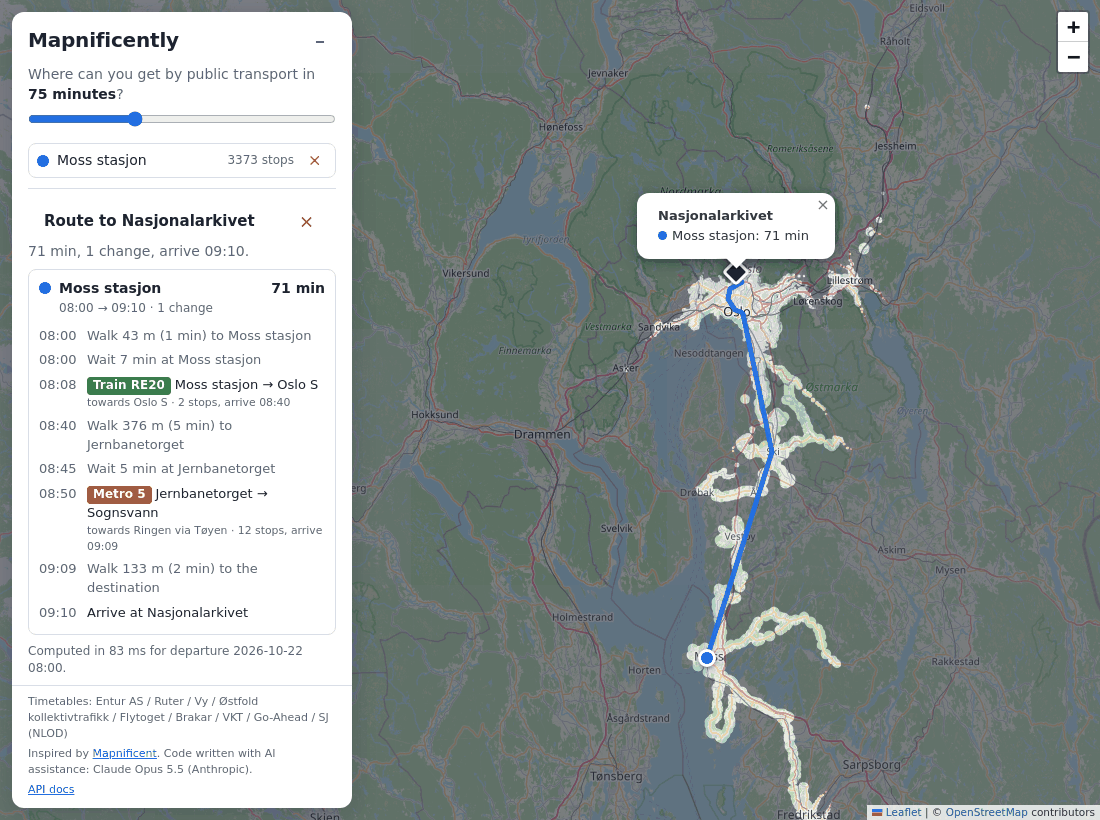
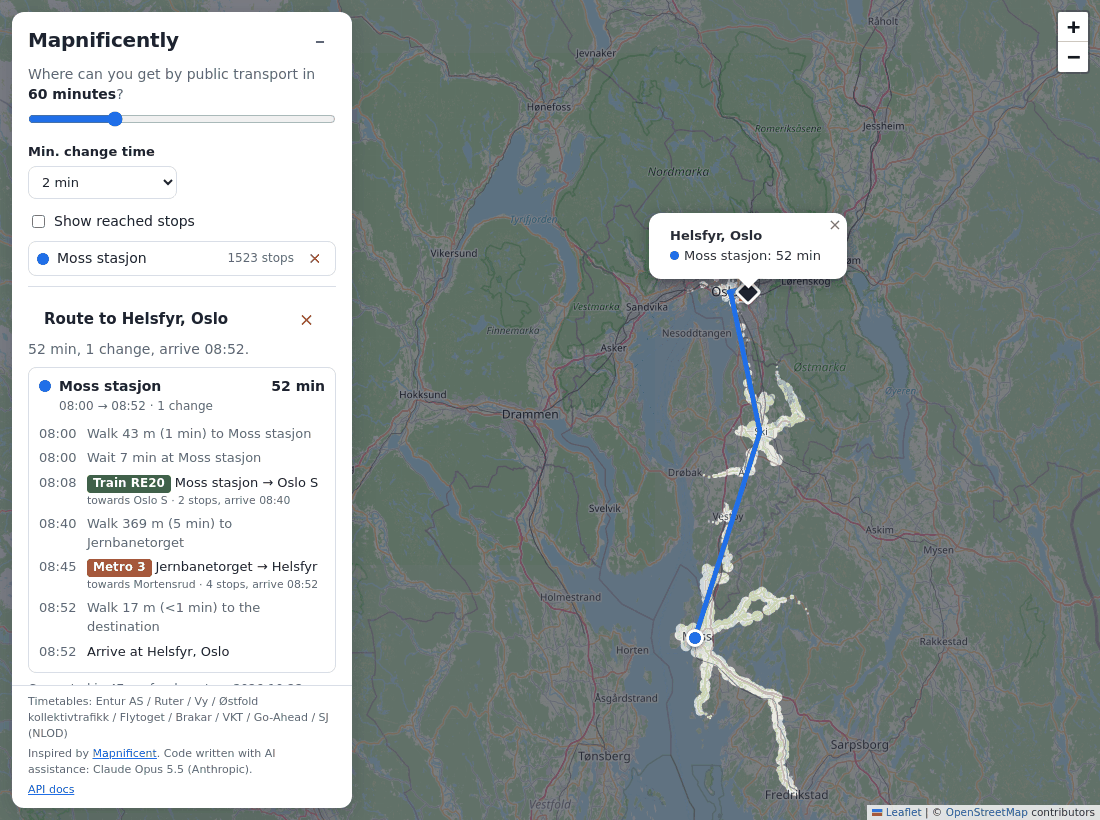
End a route's last short walk at the destination
When the destination lies right at the stop a route walks to last (e.g.
from the Helsfyr metro platform to the neighbouring "Helsfyr T" stop), the
route ended with "Walk 17 m (0 min) to Helsfyr T" followed by the arrival.
That walk now ends at the destination ("to the destination"), and walks
under 30 seconds show "<1 min" instead of "0 min".

Python (journey.py) and the browser engine (offline.js) apply the same rule
and still give identical journeys; a test covers a destination reached on
foot from the last stop.

Use Moss stasjon → Helsfyr, Oslo as the README's route example

"How do I get there?" now shows Moss stasjon → Helsfyr, Oslo at 08:00 on
a weekday: RE20 to Oslo S, a 5-minute walk to Jernbanetorget, then metro 3
to Helsfyr, 52 minutes with one change. The screenshot was re-recorded.

`make readme-media MEDIA_ONLY=route` (scripts/readme_media.py --only)
re-records just some of the images, so the GIFs are left untouched. The
screenshot's panel now starts at the change-time row, with its label.

diff --git a/src/mapnificently/web/app.js b/src/mapnificently/web/app.js
@@ -519,7 +519,8 @@ function legItems(journey, destLabel) {
       items.push([hhmm(previousArrive), "wait", `Wait ${fmtMinutes(leg.wait_s)} at ${leg.from_name}`]);
     }
     if (leg.mode === "walk") {
-      const minutesWalked = fmtMinutes((Date.parse(leg.arrive) - Date.parse(leg.depart)) / 1000);
+      const walkSeconds = (Date.parse(leg.arrive) - Date.parse(leg.depart)) / 1000;
+      const minutesWalked = walkSeconds < 30 ? "<1 min" : fmtMinutes(walkSeconds);
       const to = leg.to_name === "Destination" ? "the destination" : leg.to_name;
       const text = leg.from_name === leg.to_name
         ? `Change platform at ${leg.to_name} (${fmtDistance(leg.distance_m)})`

diff --git a/src/mapnificently/web/offline.js b/src/mapnificently/web/offline.js
@@ -328,6 +328,10 @@
     const last = distanceTo(net, bestStop, destination) * detour;
     if (last >= MIN_WALK_LEG_M) {
       legs.push({ kind: "walk", from: bestStop, to: null, depart: result.arrival[bestStop], arrive: bestT, distance: last });
+    } else if (legs.length && legs[legs.length - 1].kind === "walk") {
+      // The destination is right at the stop we walked to: that walk ends at the destination.
+      legs[legs.length - 1].to = null;
+      legs[legs.length - 1].arrive = bestT;
     }
     return { arrive: bestT, legs };
   }

diff --git a/scripts/readme_media.py b/scripts/readme_media.py
@@ -139,20 +139,20 @@ def record_meeting(page: Page, base: str, day: date, frames: Path) -> list[list[
 
 
 def record_route(page: Page, base: str, day: date, out: Path) -> None:
-    """Moss stasjon → Nasjonalarkivet, leg by leg."""
+    """Moss stasjon → Helsfyr, Oslo, leg by leg."""
     page.set_viewport_size({"width": 1100, "height": 820})
-    url = f"{base}#city=moss&o=59.43214,10.65705&to=59.96678,10.73550&t=75&at={day}T08:00&ch=2"
+    url = f"{base}#city=moss&o=59.43214,10.65705&to=59.91267,10.80105&t=60&at={day}T08:00&ch=2"
     page.goto(url)
     page.reload()
     page.wait_for_function("state.route && state.route.result", timeout=60_000)
     page.evaluate(
-        "state.origins[0].label = 'Moss stasjon'; state.destination.label = 'Nasjonalarkivet';"
+        "state.origins[0].label = 'Moss stasjon'; state.destination.label = 'Helsfyr, Oslo';"
         " renderRoute(); renderOrigins();"
     )
-    # Start the panel at the start-point list, so no half-cut setting shows above the route.
+    # Start the panel at the change-time row, so no half-cut setting shows above the route.
     page.evaluate(
         "() => { const body = $('panel-body');"
-        " body.scrollTop = $('origins').offsetTop - body.offsetTop - 4; }"
+        " body.scrollTop = $('change').closest('.row').offsetTop - body.offsetTop - 4; }"
     )
     settle(page)
     page.screenshot(path=out.with_suffix(".tmp.png"))
@@ -213,6 +213,13 @@ def main() -> None:
     parser.add_argument("--base-url", default="http://127.0.0.1:8000/")
     parser.add_argument("--out", type=Path, default=Path("docs/media"))
     parser.add_argument("--date", type=date.fromisoformat, default=next_weekday())
+    parser.add_argument(
+        "--only",
+        nargs="+",
+        choices=["cities", "meeting", "route"],
+        default=["cities", "meeting", "route"],
+        help="Record only these (default: all).",
+    )
     args = parser.parse_args()
     base = args.base_url.rstrip("/") + "/"
     args.out.mkdir(parents=True, exist_ok=True)
@@ -221,9 +228,12 @@ def main() -> None:
         frames = Path(tmp)
         browser = p.chromium.launch()
         page = browser.new_page(viewport=SIZE, device_scale_factor=1)
-        write_gif(record_cities(page, base, args.date, frames), args.out / "cities.gif")
-        write_gif(record_meeting(page, base, args.date, frames), args.out / "meeting-point.gif")
-        record_route(page, base, args.date, args.out / "route.png")
+        if "cities" in args.only:
+            write_gif(record_cities(page, base, args.date, frames), args.out / "cities.gif")
+        if "meeting" in args.only:
+            write_gif(record_meeting(page, base, args.date, frames), args.out / "meeting-point.gif")
+        if "route" in args.only:
+            record_route(page, base, args.date, args.out / "route.png")
         browser.close()
     for path in sorted(args.out.iterdir()):
         print(f"{path}: {path.stat().st_size / 1e6:.2f} MB")

diff --git a/tests/unit/test_journey.py b/tests/unit/test_journey.py
@@ -178,3 +178,13 @@ def test_boards_where_fewest_vehicles_are_needed(tmp_path: Path):
     assert rides == [("Y", "Stop R", "Stop S")]
     assert journey.num_changes == 0
     assert journey.duration_s == 20 * 60  # the same arrival as riding X then Y
+
+
+def test_last_walk_ends_at_the_destination(store: CityDataStore, test_city: CityConfig):
+    """Destination right at F, which is reached on foot from C: that walk is to the destination."""
+    [journey] = route(store, test_city, [at("A")], at("F")).journeys
+    *_, ride, walk = journey.legs
+    assert (ride.line, ride.to_name) == ("1", "Stop C")
+    assert (walk.mode, walk.from_name, walk.to_name) == ("walk", "Stop C", "Destination")
+    assert 50 < walk.distance_m < 100
+    assert walk.arrive == journey.arrive

diff --git a/src/mapnificently/routing/journey.py b/src/mapnificently/routing/journey.py
@@ -201,4 +201,8 @@ def itinerary_to(
         legs.append(
             Leg("walk", best_stop, None, result.arrival[best_stop], best_t, distance_m=last)
         )
+    elif legs and legs[-1].kind == "walk":
+        # The destination is right at the stop we walked to: that walk ends at the destination.
+        legs[-1].to_stop = None
+        legs[-1].arrive_s = best_t
     return Itinerary(arrive_s=best_t, legs=legs)

diff --git a/README.md b/README.md
@@ -48,10 +48,10 @@ which appears near Oslo S after about 20 minutes and grows from there.*
 **How do I get there?** Switch clicks to "Shows the route" and pick a place: the panel lists
 every walk, wait and ride for each start point, and the map draws the route.
 
-![The route from Moss stasjon to Nasjonalarkivet, leg by leg](docs/media/route.png)
+![The route from Moss stasjon to Helsfyr, Oslo, leg by leg](docs/media/route.png)
 
-*Moss stasjon → Nasjonalarkivet: RE20 to Oslo S, a 5-minute walk to Jernbanetorget, then
-metro 5 to Sognsvann: 71 minutes with one change.*
+*Moss stasjon → Helsfyr, Oslo, at 08:00 on a weekday: RE20 to Oslo S, a 5-minute walk to
+Jernbanetorget, then metro 3 to Helsfyr: 52 minutes with one change.*
 
 ## Quick start
 
